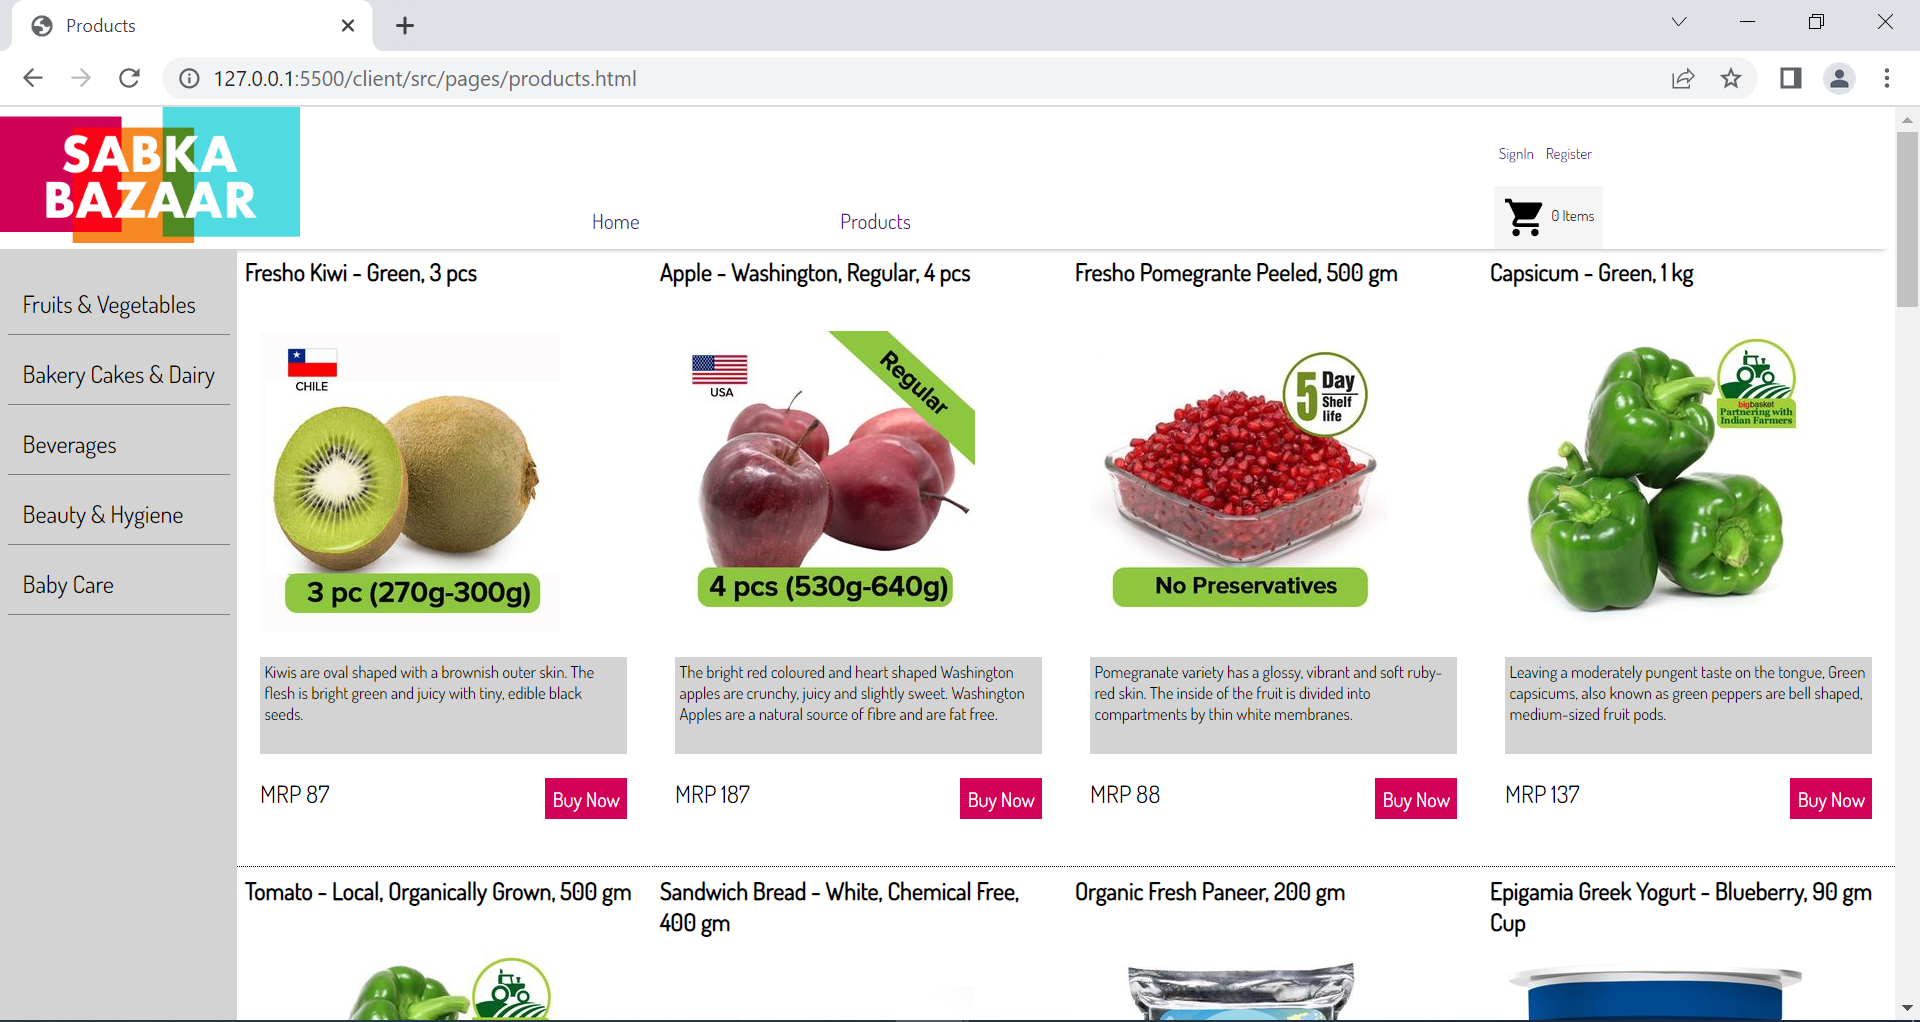
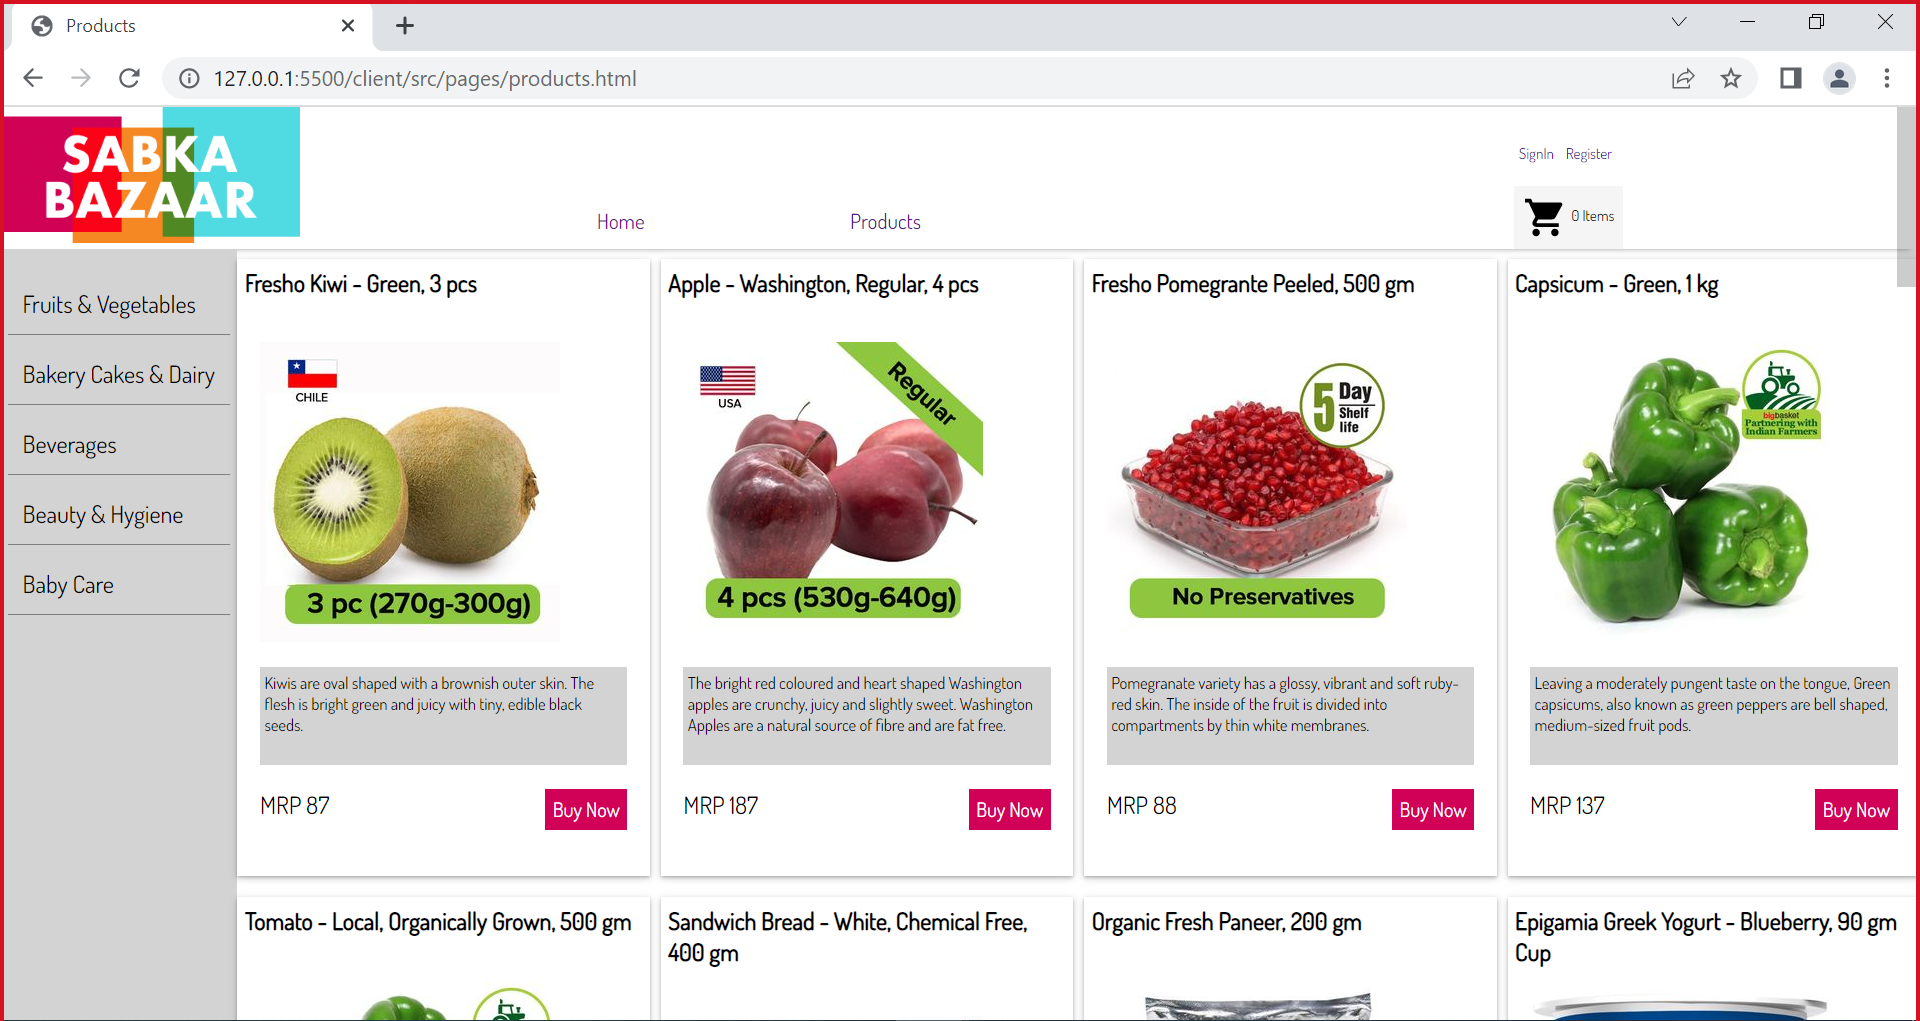
latest_final

diff --git a/client/src/pages/register.html b/client/src/pages/register.html
@@ -18,11 +18,21 @@
     <script src="../components/header.js"></script>
     <script src="../components//footer.js"></script>
     <script>
-        function submitRegistration(e){
-            e.preventDefault();
+      function submitRegistration(e) {
+        e.preventDefault();
+
+
+        if (
+          document.getElementById("upassword").value !==
+          document.getElementById("ucpassword").value
+        ) {
+          alert("password doesn't match");
         }
+        else{
+            window.location.href = "home.html"
+        }
+      }
     </script>
-      
   </head>
   <body>
     <header-component></header-component>
@@ -33,7 +43,11 @@
           <div>We don't share your personal details with anyone</div>
         </div>
         <div>
-          <form action="home.html" class="register_details" onsubmit="submitRegistration(e)">
+          <form
+            
+            class="register_details"
+            onsubmit="submitRegistration(event)"
+          >
             <label for="ufname">First Name : </label>
             <input type="text" name="ufname" id="ufname" required />
             <label for="ulname">Last Name : </label>
@@ -56,7 +70,8 @@
               required
               pattern="(?=.*\d)(?=.*[a-z])(?=.*[A-Z]).{6,}"
             />
-            <input type="submit" id="submit" value="Signup" />
+            <button type="submit">Signup</button>
+            <!-- <input type="submit" id="submit" value="Signup" /> -->
           </form>
         </div>
       </section>

diff --git a/client/src/pages/login.html b/client/src/pages/login.html
@@ -18,7 +18,7 @@
     <script src="../components/header.js"></script>
     <script src="../components//footer.js"></script>
     <script>
-      function loginSubmit() {
+      function loginSubmit(e) {
         e.preventDefault();
       }
     </script>
@@ -35,7 +35,7 @@
           <form
             action="home.html"
             class="login_details"
-            onsubmit="loginSubmit(e)"
+            onsubmit="loginSubmit(event)"
           >
             <label for="uemail">Email : </label>
             <input type="email" name="uemail" id="uemail" required />

diff --git a/client/src/pages/products.html b/client/src/pages/products.html
@@ -54,7 +54,7 @@
           <li><a href="#" id="5b6899683d1a866534f516e0">Baby Care</a></li>
         </ul>
       </aside>
-      <select  id="filter_dropdown" onchange="myFunction()">
+      <select  id="filter_dropdown" onchange="filterOnchange()">
         <option value="5b6899953d1a866534f516e2">Fruits & Vegetables</option>
         <option value="5b6899123d1a866534f516de">Bakery Cakes & Dairy</option>
         <option value="5b675e5e5936635728f9fc30">Beverages</option>

diff --git a/client/src/scss/product.scss b/client/src/scss/product.scss
@@ -26,7 +26,8 @@ $backgroundColor: lightgray;
     flex-direction: column;
     flex-wrap: wrap;
     justify-content: space-evenly;
-    border-bottom: 1px dotted black;
+    box-shadow: 0 1px 2px 0 rgb(0 0 0 / 20%), 0 1.5px 5px 0 rgb(0 0 0 / 19%);
+    margin: 7px 0;
     .buy_button{
       display: flex;
       justify-content: space-between;

diff --git a/client/src/pages/products.js b/client/src/pages/products.js
@@ -165,7 +165,7 @@ function closeCart() {
   document.querySelector(".cart").style.display = "none";
 }
 
-function myFunction(){
+function filterOnchange(){
 let target = document.getElementById("filter_dropdown").value;
 
   let filteredProducts = allProducts.filter((product) => {

diff --git a/client/src/style/product.css b/client/src/style/product.css
@@ -15,7 +15,8 @@
   flex-direction: column;
   flex-wrap: wrap;
   justify-content: space-evenly;
-  border-bottom: 1px dotted black;
+  box-shadow: 0 1px 2px 0 rgba(0, 0, 0, 0.2), 0 1.5px 5px 0 rgba(0, 0, 0, 0.19);
+  margin: 7px 0;
 }
 .cards .buy_button {
   display: flex;
